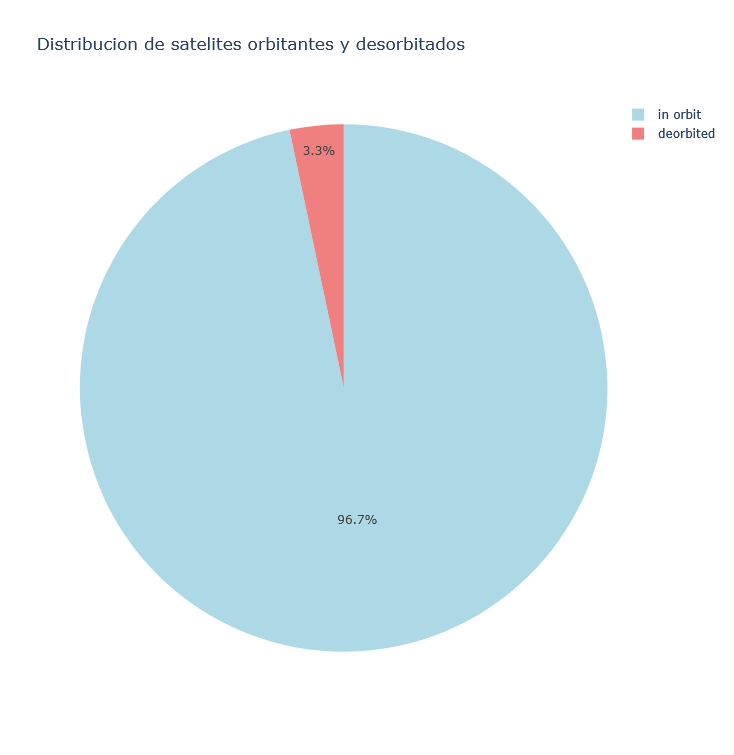
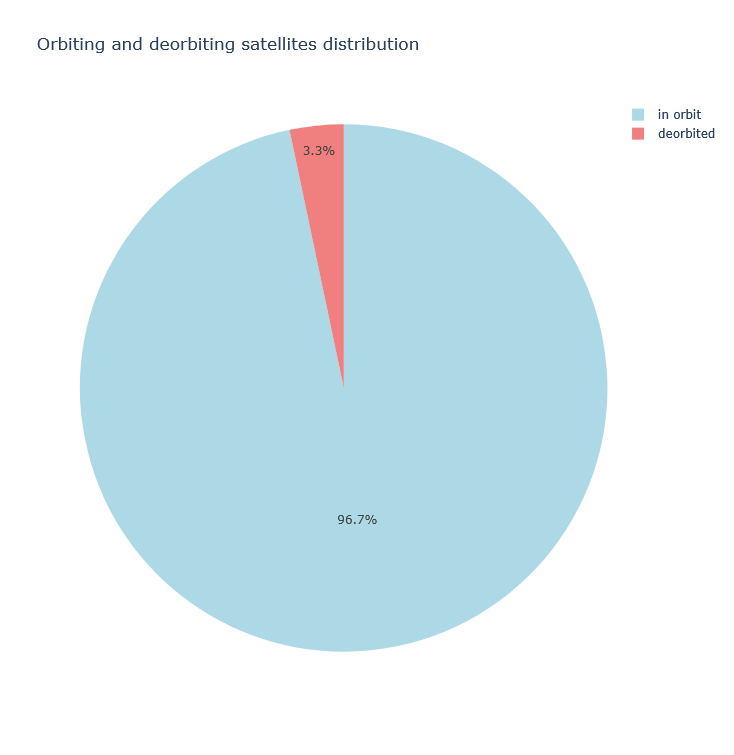
title translated, new image added

Changed region(s): [[0.0599, 0.0305, 0.6294, 0.0914]]

diff --git a/first_video/analisis.py b/first_video/analisis.py
@@ -54,9 +54,8 @@ status_count.columns = ["status", "count"]
 fig = px.pie(status_count,
              values='count',
              names='status',
-             title='Distribucion de satelites orbitantes y desorbitados',
+             title='Orbiting and deorbiting satellites distribution',
              color='status',
              color_discrete_map={'in orbit': 'lightblue', 'deorbited': 'lightcoral'})
 
-fig.add_pie(customdata=status_count)
 fig.show()
